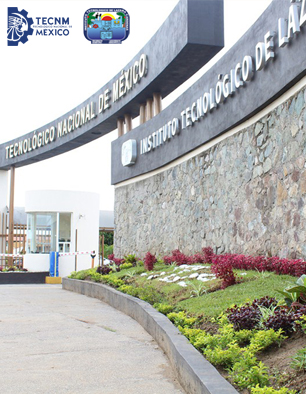
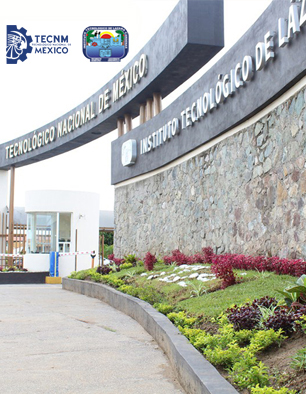
Commit

Changed region(s): [[0.0, 0.0, 0.2353, 0.1827], [0.2647, 0.0, 0.4412, 0.1827]]

diff --git a/public/index.html b/public/index.html
@@ -27,9 +27,10 @@
 						<!-- Me -->
 							<article id="home" class="panel intro">
 								<header>
-                  <img src="images/logo.png" width="30px"/>
-									<h1>ITLACbot</h1>
-									<p>Chatbot del Instituto Tecnologico de Lázaro Cárdenas</p>
+                  <img src="images/logo.png" height="50px"/>
+                  <img src="images/tecnm.png" height="50px"/>
+									<h1>ITLACbot</h1><hr>
+									<p>Chatbot del Instituto Tecnologico<br>de Lázaro Cárdenas</p>
 								</header>
 								<a href="#work" class="jumplink pic">
 									<span class="arrow icon solid fa-chevron-right"><span>See my work</span></span>
